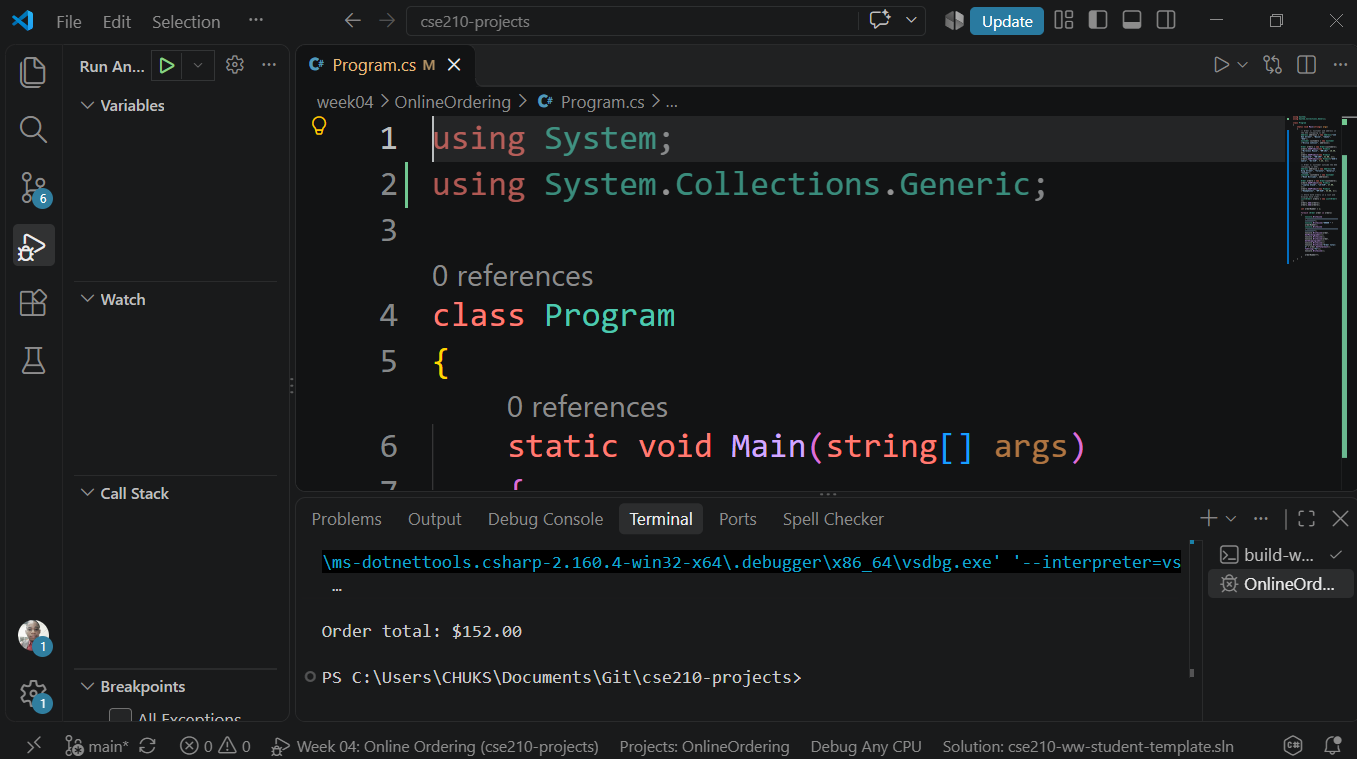
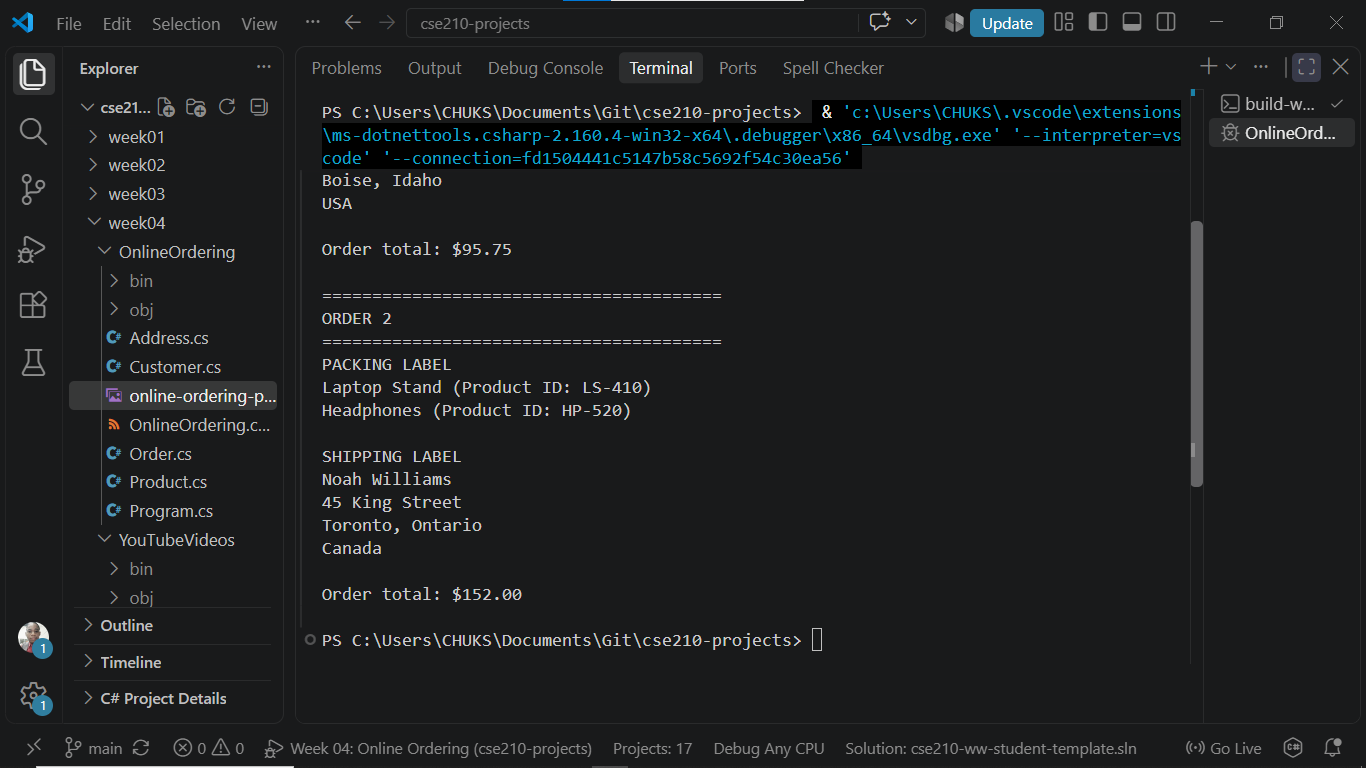
W04 youtube video program

diff --git a/week04/YouTubeVideos/Program.cs b/week04/YouTubeVideos/Program.cs
@@ -1,0 +1,54 @@
+using System;
+using System.Collections.Generic;
+
+class Program
+{
+    static void Main(string[] args)
+    {
+        // Create four videos. Each Video object stores its own Comment objects.
+        Video video1 = new Video("Learning C# Classes", "Code with Alex", 625);
+        video1.AddComment(new Comment("Maya", "The examples made classes easier to understand."));
+        video1.AddComment(new Comment("Daniel", "I finally understand constructors."));
+        video1.AddComment(new Comment("Grace", "Please make another lesson about objects."));
+
+        Video video2 = new Video("A Beginner's Guide to Git", "Dev Steps", 480);
+        video2.AddComment(new Comment("Samuel", "This helped me understand commits."));
+        video2.AddComment(new Comment("Aisha", "The explanation was clear and practical."));
+        video2.AddComment(new Comment("Peter", "I would like to see a lesson about branches."));
+
+        Video video3 = new Video("Building Better Study Habits", "Learn Every Day", 735);
+        video3.AddComment(new Comment("Ruth", "The small daily goals are useful."));
+        video3.AddComment(new Comment("John", "I am going to try the weekly review."));
+        video3.AddComment(new Comment("Esther", "A very encouraging video."));
+
+        Video video4 = new Video("Understanding Object Composition", "Programming Simply", 590);
+        video4.AddComment(new Comment("David", "The real-life examples were helpful."));
+        video4.AddComment(new Comment("Joy", "Composition makes more sense now."));
+        video4.AddComment(new Comment("Michael", "Thank you for keeping it beginner friendly."));
+
+        // Store all Video objects in one list.
+        List<Video> videos = new List<Video>();
+        videos.Add(video1);
+        videos.Add(video2);
+        videos.Add(video3);
+        videos.Add(video4);
+
+        // Display each video and the comments stored inside it.
+        foreach (Video video in videos)
+        {
+            Console.WriteLine("----------------------------------------");
+            Console.WriteLine("Title: " + video.GetTitle());
+            Console.WriteLine("Author: " + video.GetAuthor());
+            Console.WriteLine("Length: " + video.GetLengthInSeconds() + " seconds");
+            Console.WriteLine("Number of comments: " + video.GetNumberOfComments());
+            Console.WriteLine("Comments:");
+
+            foreach (Comment comment in video.GetComments())
+            {
+                Console.WriteLine("- " + comment.GetCommenterName() + ": " + comment.GetText());
+            }
+
+            Console.WriteLine();
+        }
+    }
+}

diff --git a/week04/YouTubeVideos/Video.cs b/week04/YouTubeVideos/Video.cs
@@ -1,0 +1,47 @@
+using System.Collections.Generic;
+
+public class Video
+{
+    private string _title;
+    private string _author;
+    private int _lengthInSeconds;
+    private List<Comment> _comments;
+
+    public Video(string title, string author, int lengthInSeconds)
+    {
+        _title = title;
+        _author = author;
+        _lengthInSeconds = lengthInSeconds;
+        _comments = new List<Comment>();
+    }
+
+    public void AddComment(Comment comment)
+    {
+        _comments.Add(comment);
+    }
+
+    public int GetNumberOfComments()
+    {
+        return _comments.Count;
+    }
+
+    public string GetTitle()
+    {
+        return _title;
+    }
+
+    public string GetAuthor()
+    {
+        return _author;
+    }
+
+    public int GetLengthInSeconds()
+    {
+        return _lengthInSeconds;
+    }
+
+    public List<Comment> GetComments()
+    {
+        return _comments;
+    }
+}

diff --git a/week04/YouTubeVideos/Comment.cs b/week04/YouTubeVideos/Comment.cs
@@ -1,0 +1,21 @@
+public class Comment
+{
+    private string _commenterName;
+    private string _text;
+
+    public Comment(string commenterName, string text)
+    {
+        _commenterName = commenterName;
+        _text = text;
+    }
+
+    public string GetCommenterName()
+    {
+        return _commenterName;
+    }
+
+    public string GetText()
+    {
+        return _text;
+    }
+}
